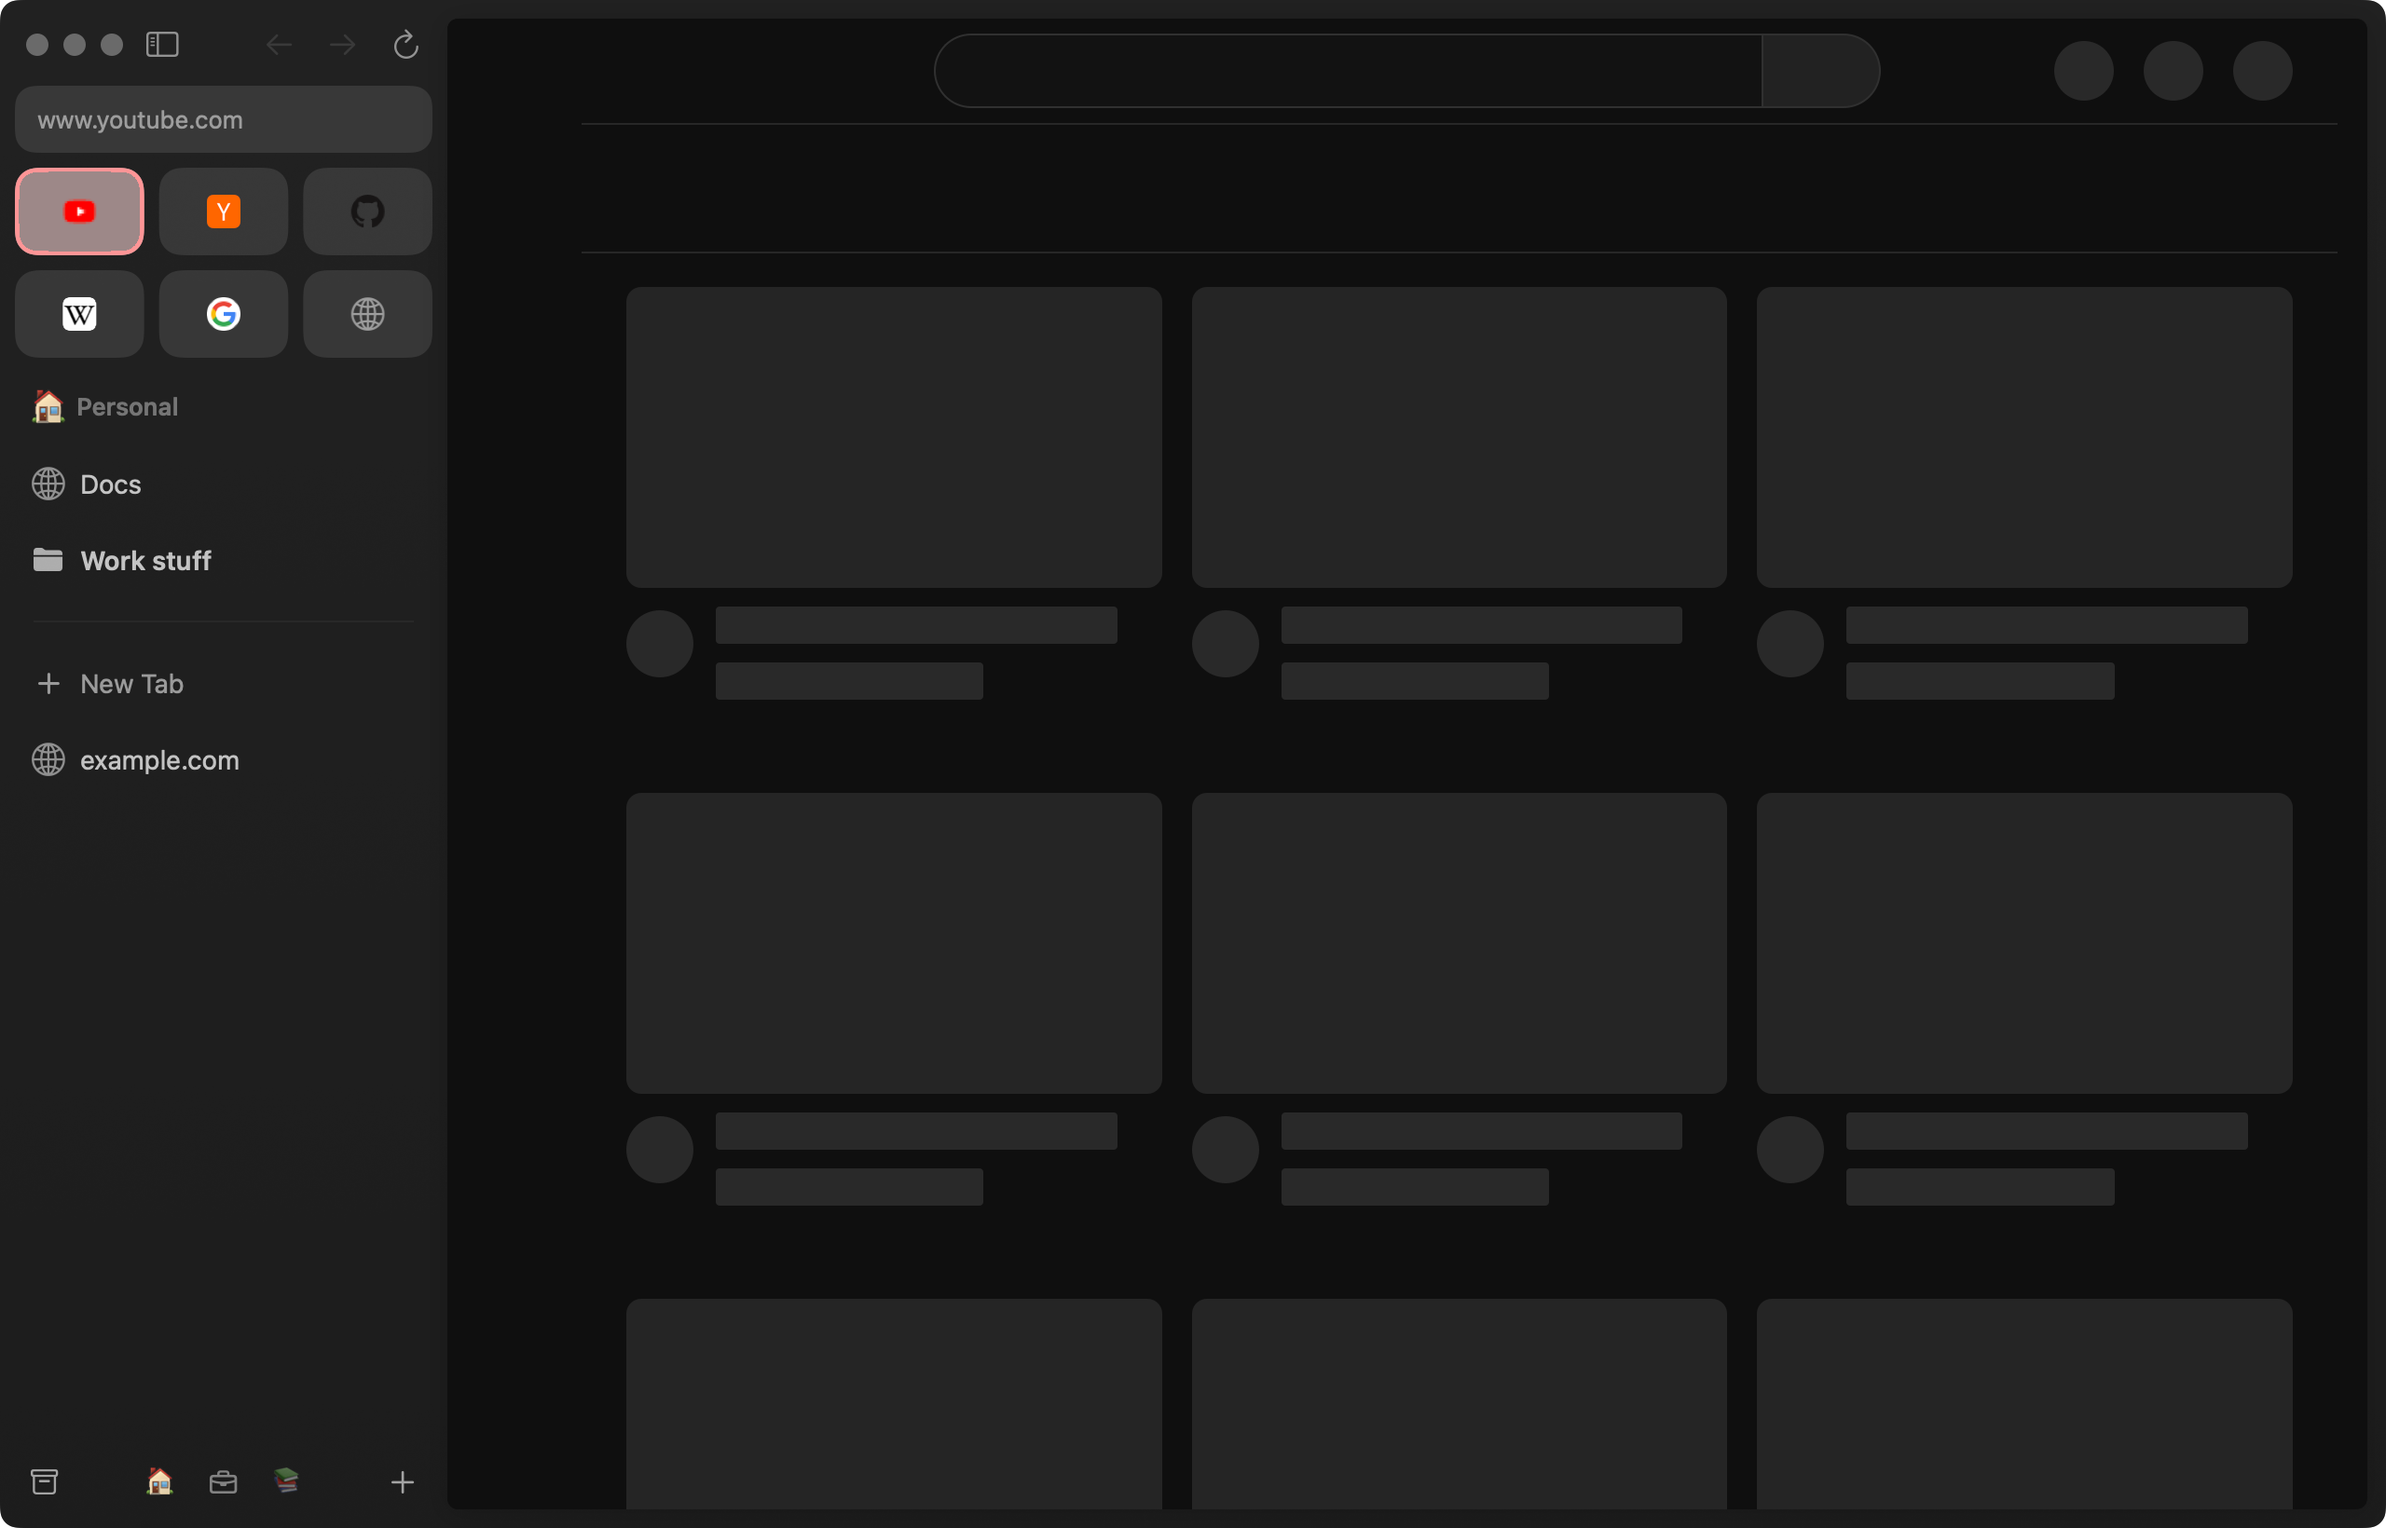
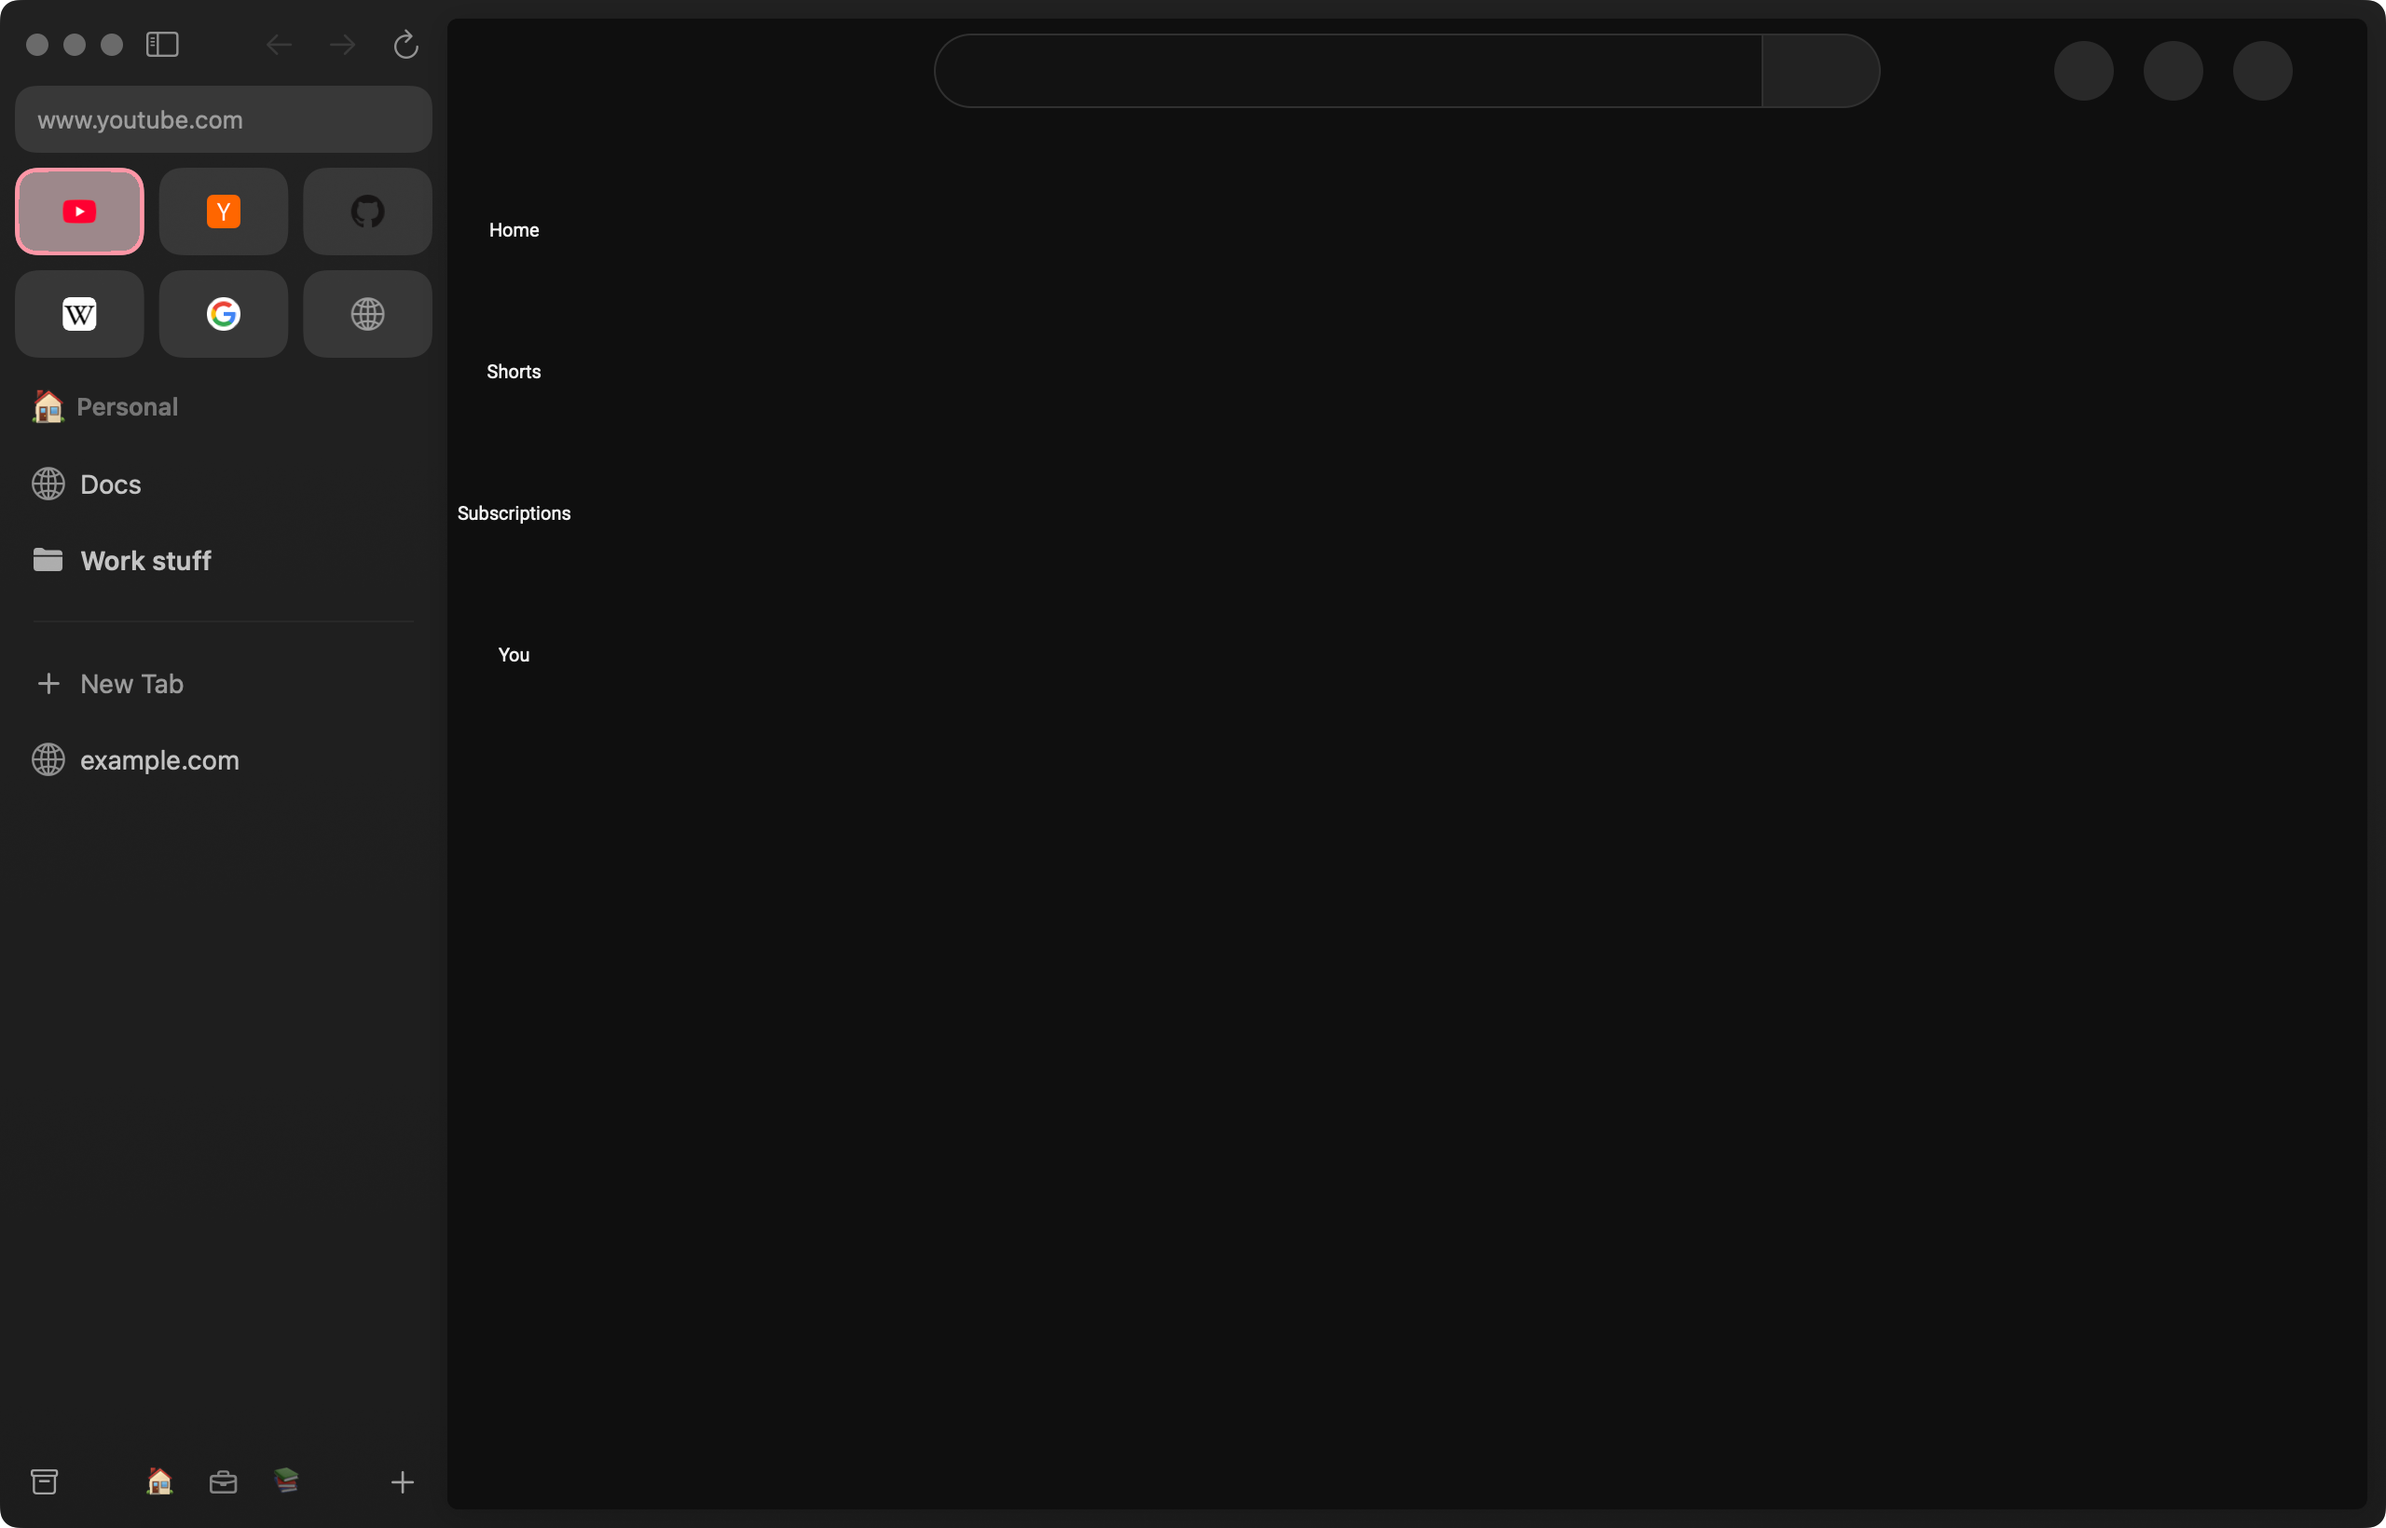
Mac references for w13, taken headless by CI
From review/w13-mac-request 3a8e418, built from 208bb89.
Run: https://github.com/gabekus/kite/actions/runs/41944787715

diff --git a/review/w13-mac/NOTES.md b/review/w13-mac/NOTES.md
@@ -13,19 +13,20 @@ Build: a debug test bundle (dev.gabek.Kite.dev, ad-hoc signed) from origin/main 
 
 | file | session | env | steps | holds | result |
 |---|---|---|---|---|---|
-| rest.png | `windows/helix/states/favorites.json` from `origin/helix/W13-favorites` (7448362) | none | none | six favorites three a row under the address field (YouTube, Hacker News, GitHub / Wikipedia, Google, Example Domain's globe), YouTube selected: white with its red tint and ring; the page's header under the grid | captured; unverified: YouTube is the selected tab, so its page loads and may replace the selected tile's icon with the one its page links (the red play logo either way, at its own size) |
-| one.png | `windows/helix/states/favorites-1.json` from `origin/helix/W13-favorites` (7448362) | none | none | one favorite (Example Domain, no favicon: the globe) across the whole row, not selected | captured |
-| four.png | `windows/helix/states/favorites-4.json` from `origin/helix/W13-favorites` (7448362) | none | none | four favorites in one row, none selected | captured |
-| nine.png | `windows/helix/states/favorites-9.json` from `origin/helix/W13-favorites` (7448362) | none | none | nine favorites three by three (YouTube, Hacker News, GitHub / Wikipedia, Google, Example / Python, Mozilla, Apple), none selected | captured |
+| rest.png | `windows/helix/states/favorites.json` from `origin/helix/W13-favorites` (c5010a9) | none | none | six favorites three a row under the address field (YouTube, Hacker News, GitHub / Wikipedia, Google, Example Domain's globe), YouTube selected: white with its red tint and ring; the page's header under the grid | captured; unverified: YouTube is the selected tab, so its page loads and may replace the selected tile's icon with the one its page links (the red play logo either way, at its own size) |
+| one.png | `windows/helix/states/favorites-1.json` from `origin/helix/W13-favorites` (c5010a9) | none | none | one favorite (Example Domain, no favicon: the globe) across the whole row, not selected | captured |
+| four.png | `windows/helix/states/favorites-4.json` from `origin/helix/W13-favorites` (c5010a9) | none | none | four favorites in one row, none selected | captured |
+| nine.png | `windows/helix/states/favorites-9.json` from `origin/helix/W13-favorites` (c5010a9) | none | none | nine favorites three by three (YouTube, Hacker News, GitHub / Wikipedia, Google, Example / Python, Mozilla, Apple), none selected | captured |
 | missing-favicon.png | inline in request.json | none | none | favorites.json with Example Domain's favorite selected: white at 0.45, its globe, no tint or ring (no colour) | captured |
-| hover.png (none) | `windows/helix/states/favorites.json` from `origin/helix/W13-favorites` (7448362) | none | none | a hovered unselected favorite (white 0.20 for 0.10) | skipped, unverified: a pointer resting on a FavoritePaneView: not a SAFE_TARGETS view and no hover hook; Windows' --favorite-hover only |
+| empty.png | `windows/helix/states/sidebar.json` from `origin/helix/W13-favorites` (c5010a9) | none | none | a fresh profile with no favorites: the dashed "Drag to add Favorites" box (59pt, its subtitle on two lines) between the address field and Personal's header (near y 157), no close button (the pointer isn't on it) | captured |
+| hover.png (none) | `windows/helix/states/favorites.json` from `origin/helix/W13-favorites` (c5010a9) | none | none | a hovered unselected favorite (white 0.20 for 0.10) | skipped, unverified: a pointer resting on a FavoritePaneView: not a SAFE_TARGETS view and no hover hook; Windows' --favorite-hover only |
 
 ## Frames (`kite ui tree '{"match":"FavoritePaneView"}'`, window points)
 
 rest (after the capture; `rest.tree.txt` has launch, before and after):
 
 ```
-Window 17980, 1280×820 pt at 2×. Points from the window's top-left.
+Window 17999, 1280×820 pt at 2×. Points from the window's top-left.
 <untrusted-page-content source="Kite window">
 0.3.1.1.0 FavoritePaneView [8,90 69.33×47]
 0.3.1.2.0 FavoritePaneView [85.33,90 69.33×47]
@@ -39,7 +40,7 @@ Window 17980, 1280×820 pt at 2×. Points from the window's top-left.
 one (after the capture; `one.tree.txt` has launch, before and after):
 
 ```
-Window 17982, 1280×820 pt at 2×. Points from the window's top-left.
+Window 18001, 1280×820 pt at 2×. Points from the window's top-left.
 <untrusted-page-content source="Kite window">
 0.3.1.1.0 FavoritePaneView [8,90 224×47]
 </untrusted-page-content>
@@ -48,7 +49,7 @@ Window 17982, 1280×820 pt at 2×. Points from the window's top-left.
 four (after the capture; `four.tree.txt` has launch, before and after):
 
 ```
-Window 17984, 1280×820 pt at 2×. Points from the window's top-left.
+Window 18003, 1280×820 pt at 2×. Points from the window's top-left.
 <untrusted-page-content source="Kite window">
 0.3.1.1.0 FavoritePaneView [8,90 50×47]
 0.3.1.2.0 FavoritePaneView [66,90 50×47]
@@ -60,7 +61,7 @@ Window 17984, 1280×820 pt at 2×. Points from the window's top-left.
 nine (after the capture; `nine.tree.txt` has launch, before and after):
 
 ```
-Window 17986, 1280×820 pt at 2×. Points from the window's top-left.
+Window 18005, 1280×820 pt at 2×. Points from the window's top-left.
 <untrusted-page-content source="Kite window">
 0.3.1.1.0 FavoritePaneView [8,90 69.33×47]
 0.3.1.2.0 FavoritePaneView [85.33,90 69.33×47]
@@ -77,7 +78,7 @@ Window 17986, 1280×820 pt at 2×. Points from the window's top-left.
 missing-favicon (after the capture; `missing-favicon.tree.txt` has launch, before and after):
 
 ```
-Window 17988, 1280×820 pt at 2×. Points from the window's top-left.
+Window 18007, 1280×820 pt at 2×. Points from the window's top-left.
 <untrusted-page-content source="Kite window">
 0.3.1.1.0 FavoritePaneView [8,90 69.33×47]
 0.3.1.2.0 FavoritePaneView [85.33,90 69.33×47]
@@ -86,6 +87,13 @@ Window 17988, 1280×820 pt at 2×. Points from the window's top-left.
 0.3.1.5.0 FavoritePaneView [85.33,145 69.33×47]
 0.3.1.6.0 FavoritePaneView [162.67,145 69.33×47]
 </untrusted-page-content>
+```
+
+empty (after the capture; `empty.tree.txt` has launch, before and after):
+
+```
+Window 18009, 1280×820 pt at 2×. Points from the window's top-left.
+Nothing matches "FavoritePaneView".
 ```
 
 ## Not verified headless
